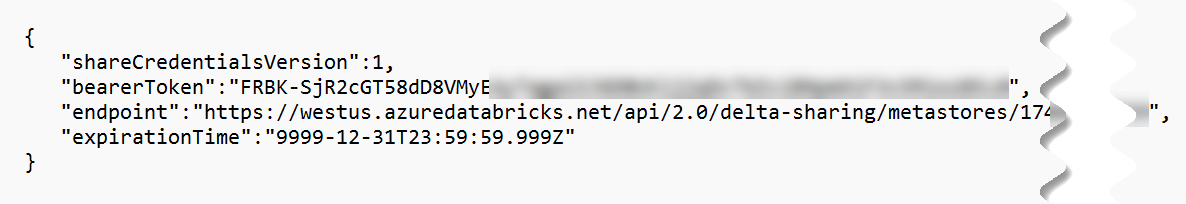
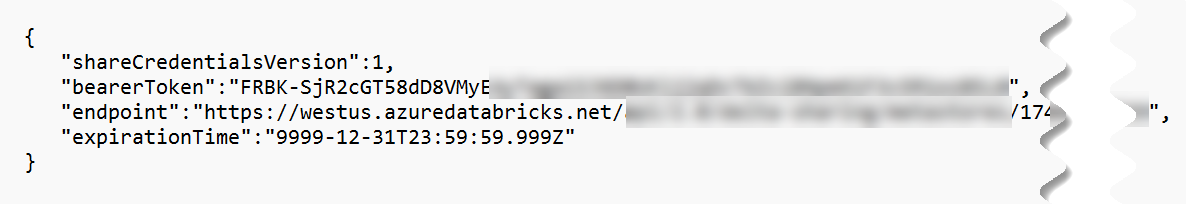
changes to new lab.

Changed region(s): [[0.5304, 0.4706, 0.8735, 0.6471]]

diff --git a/shared/adw-data-lake/use-data-sharing-plsql/advanced-tips/advanced-tips.md b/shared/adw-data-lake/use-data-sharing-plsql/advanced-tips/advanced-tips.md
@@ -256,6 +256,9 @@ at the share level.
 
 Prerequisite:
 
+>_**Note**: This is not a hands-on lab; instead, it is a demo of how to integrate ADW
+with an external Delta Sharing provider such as Databricks in our example. Some of the code this task is blurred or masked with place holders to protect private credentials. You can replace the masked credentials with your own `endpoint`, `tokenEndpoint`, `bearerToken`, and `clientSecret` credentials from your own **`delta_share_profile.json`** downloaded file._
+
 You must have a valid Delta Sharing activation profile with:
 
 * Bearer token
@@ -264,17 +267,15 @@ You must have a valid Delta Sharing activation profile with:
 
 **Example:**
 
-![Example .](images/example.png)
+![Example .](images/example.png " ")
 
-In this task, as the `admin` user, you will create an Access Control List (ACL) to allow outbound connections over HTTPS. This involves providing the following:
-
-Oracle Autonomous Database uses Access Control Lists (ACLs) to control access to external network resources. In this step, you will do the following:
+Oracle Autonomous Database uses Access Control Lists (ACLs) to control access to external network resources. In this step, as the `admin` user, you will create an Access Control List (ACL) to allow outbound connections over HTTPS. This involves providing the following:
 
 * Create an ACL file.
 * Grant `HTTPS` (port 443) access to a specific host, Databricks endpoint in our example.
 * Grant DNS resolution rights to the user (or role), `admin` in our example.
 
-1. Log out of the **`share_provider`** user and then log in as the **`admin`** user. Create an Access Control List (ACL) to allow outbound connections over HTTPS for the `admin` user. Copy and paste the following script into your SQL Worksheet, and then click the **Run Script** icon in the Worksheet toolbar.
+1. Log out of the **`share_provider`** user and then log in as the **`admin`** user. Create an Access Control List (ACL) to allow outbound connections over HTTPS for the `admin` user. Copy and paste the following script into your SQL Worksheet. Substitute the host used in the example with your own host, and then click the **Run Script** icon in the Worksheet toolbar.
 
     ```
     <copy>
@@ -288,7 +289,8 @@ Oracle Autonomous Database uses Access Control Lists (ACLs) to control access to
         PRIVILEGE   => 'connect'    -- Allow connect privilege
     );
 
-    -- Assign this ACL to the Databricks host on port 443 (HTTPS)
+    -- Assign this ACL to the Databricks host on port 443 (HTTPS).
+    -- Substitute the host used in the example with your own host.
     DBMS_NETWORK_ACL_ADMIN.assign_acl(
         acl         => 'databricks_acl_west.xml',
         host        => 'westus.azuredatabricks.net',
@@ -317,17 +319,19 @@ Oracle Autonomous Database uses Access Control Lists (ACLs) to control access to
 * Call the `/tables` endpoint to list tables in a specific share.
 * Use `UTL_HTTP` to send `HTTPS` requests and read responses.
 
+    > _**Note:** Replace the place holders in the `V_ENDPOINT` and `V_BEARER_TOKEN` variables in the code block with your own of credential values from your **`delta_share_profile.json`** downloaded file. In addition, substitute the `dbr2oracle` share name used in the example with your own share name._
+
     Copy and paste the following script into your SQL Worksheet, and then click the **Run Script** icon in the Worksheet toolbar.
 
     ```
     <copy>
     DECLARE
         --  Define the endpoint and authorization information
-        V_ENDPOINT       VARCHAR2(4000) := 'https://westus.azuredatabricks.net/api/2.0/delta-sharing/metastores/1740e12d-77bc-4bf8-a9d0-14e932246739';
+        V_ENDPOINT       VARCHAR2(4000) := 'replace-with-your-own-end-point-value';
         V_URL_SHARES     VARCHAR2(4000) := V_ENDPOINT || '/shares'; -- URL to list shares
         -- URL to list tables in a specific share
         V_URL_TABLES     VARCHAR2(4000);
-        V_BEARER_TOKEN   VARCHAR2(200) := 'FRBK-SjR2cGT58dD8VMyEAyTagaiSJ6D0UKljjqDcTbZciBNpmX1F3c5R1oz85L0';
+        V_BEARER_TOKEN   VARCHAR2(200) := 'replace-with-your-own-bearer-token-value';
         V_RESPONSE       CLOB;
 
         -- Variables for managing HTTP request and response
@@ -393,6 +397,74 @@ Oracle Autonomous Database uses Access Control Lists (ACLs) to control access to
     /
     </copy>
     ```
+
+    <!--
+    DECLARE
+    --  Define the endpoint and authorization information
+    V_ENDPOINT       VARCHAR2(4000) := 'https://westus.azuredatabricks.net/api/2.0/delta-sharing/metastores/1740e12d-77bc-4bf8-a9d0-14e932246739';
+    V_URL_SHARES     VARCHAR2(4000) := V_ENDPOINT || '/shares'; -- URL to list shares
+    -- URL to list tables in a specific share
+    V_URL_TABLES     VARCHAR2(4000);
+    V_BEARER_TOKEN   VARCHAR2(200) := 'FRBK-SjR2cGT58dD8VMyEAyTagaiSJ6D0UKljjqDcTbZciBNpmX1F3c5R1oz85L0';
+    V_RESPONSE       CLOB;-- Variables for managing HTTP request and response
+    L_HTTP_REQ       UTL_HTTP.REQ;
+    L_HTTP_RESP      UTL_HTTP.RESP;
+    L_BUFFER         VARCHAR2(32767);
+
+    -- Procedure to call an API URL and return the response as CLOB
+    PROCEDURE FETCH_API_RESPONSE (
+        P_URL      VARCHAR2,
+        P_RESPONSE OUT CLOB
+    ) IS
+    BEGIN
+        -- Start HTTP GET request
+        L_HTTP_REQ := UTL_HTTP.BEGIN_REQUEST(P_URL, 'GET');
+
+        -- Add required headers: Authorization and Content-Type
+        UTL_HTTP.SET_HEADER(L_HTTP_REQ, 'Authorization', 'Bearer ' || V_BEARER_TOKEN);
+        UTL_HTTP.SET_HEADER(L_HTTP_REQ, 'Content-Type', 'application/json');
+
+        -- Execute the request and get the response
+        L_HTTP_RESP := UTL_HTTP.GET_RESPONSE(L_HTTP_REQ);
+
+        --Create a temporary CLOB to store the response
+        DBMS_LOB.CREATETEMPORARY(P_RESPONSE, TRUE);
+
+        -- Read the response in chunks and append to the CLOB
+        LOOP
+            BEGIN
+                UTL_HTTP.READ_TEXT(L_HTTP_RESP, L_BUFFER, 32767);
+                DBMS_LOB.APPEND(P_RESPONSE, L_BUFFER);
+            EXCEPTION
+                WHEN UTL_HTTP.END_OF_BODY THEN
+                    EXIT;
+            END;
+        END LOOP;
+
+        -- Always clean up the HTTP response to free memory
+        UTL_HTTP.END_RESPONSE(L_HTTP_RESP);
+
+    EXCEPTION
+        WHEN OTHERS THEN
+            -- If there's an error, ensure the response is still closed
+            BEGIN
+                UTL_HTTP.END_RESPONSE(L_HTTP_RESP);
+            EXCEPTION
+                WHEN OTHERS THEN NULL; -- Suppress secondary error
+            END;
+            RAISE; -- Propagate the original error
+        END FETCH_API_RESPONSE;
+        BEGIN
+    -- Call the /shares endpoint and print the result
+        FETCH_API_RESPONSE(V_URL_SHARES, V_RESPONSE);
+        DBMS_OUTPUT.PUT_LINE('Shares: ' || V_RESPONSE);-- Call the /tables endpoint for a specific share, 'dbr2oracle' in our example.
+
+    V_URL_TABLES := V_ENDPOINT || '/shares/dbr2oracle/schemas/default/tables';
+    FETCH_API_RESPONSE(V_URL_TABLES, V_RESPONSE);
+    DBMS_OUTPUT.PUT_LINE('Tables in dbr2oracle: ' || V_RESPONSE);
+    END;
+    /
+    -->
 
     You are done! If the endpoint is accessible and the token is valid, you’ll see the list of shares and tables printed in the output.
 
